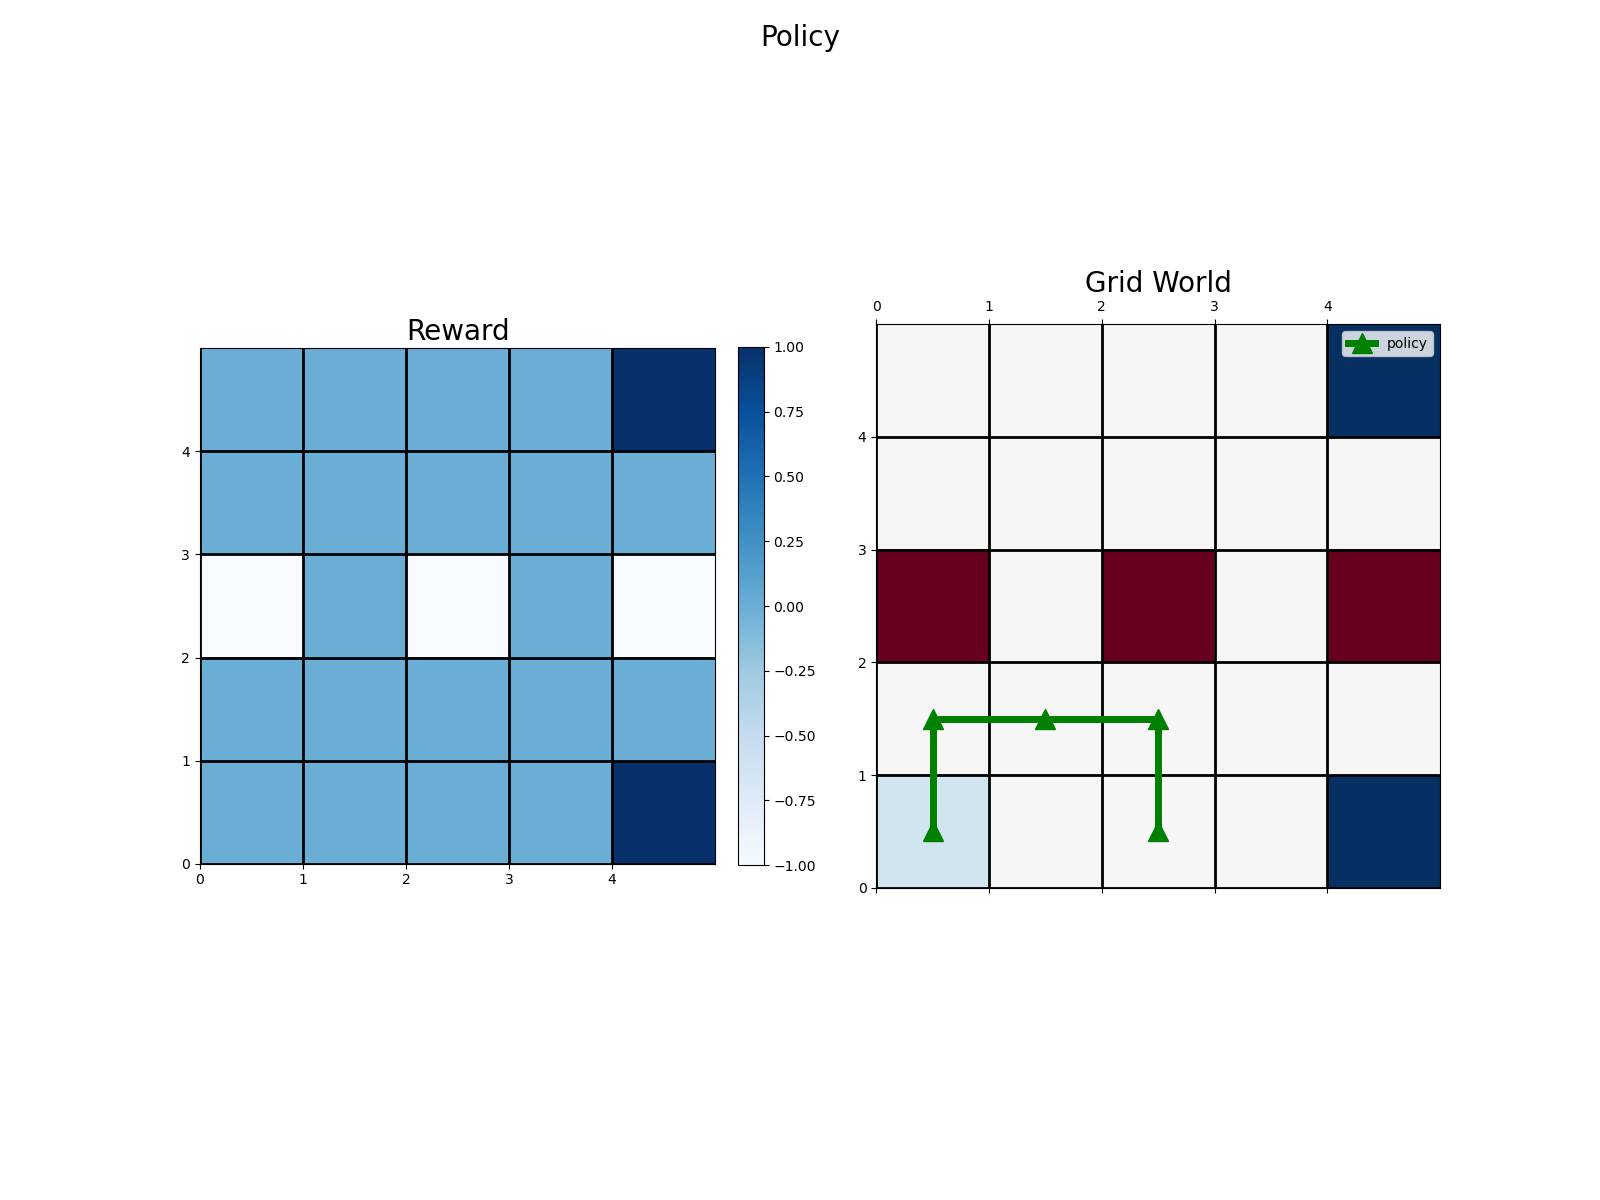
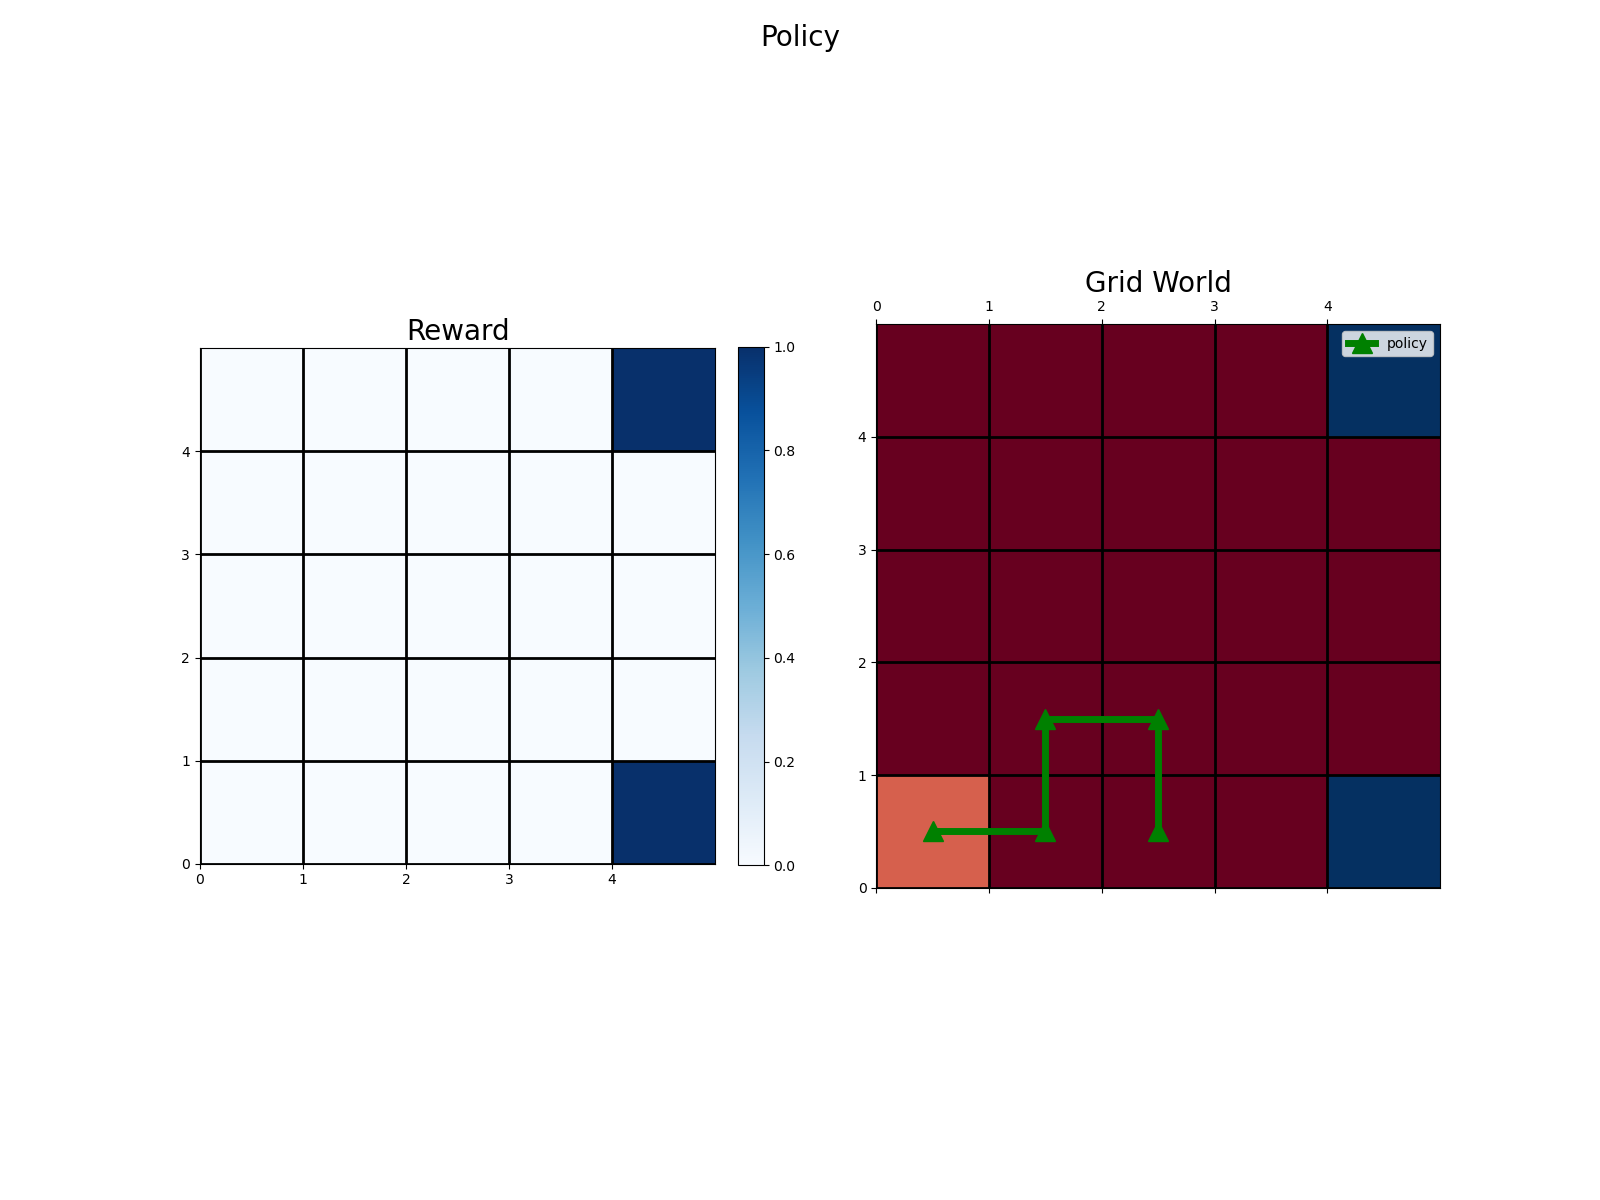
adding stochasticity

Changed region(s): [[0.5312, 0.2467, 0.9062, 0.74], [0.125, 0.2775, 0.5, 0.74]]

diff --git a/src/grid.py b/src/grid.py
@@ -1,8 +1,10 @@
+import random
+
 class GridWorld:
     '''
         Creates a grid-world environment.
     '''
-    def __init__(self, rows: int, cols: int, init_pos: tuple, goals, obstacles, p_slip: int):
+    def __init__(self, rows: int, cols: int, init_pos: tuple, goals, obstacles, p_slip: float=0.0):
         """
         Defines grid-world with following properties:
             rows: integer
@@ -10,6 +12,7 @@ class GridWorld:
             init_pos: tuple (x, y)
             goals: list of tuples
             obstacles: list of tuples
+            p_slip: slip probability
         """
         self.rows = rows
         self.cols = cols
@@ -18,7 +21,7 @@ class GridWorld:
         self.grid = [['_' for i in range(self.cols)] for j in range(self.rows)]
         self.init_pos = init_pos
         self.goals = goals
-        self.action_space = ['U', 'D', 'L', 'R']
+        self.action_space = ['U', 'R', 'D', 'L']
         self.grid[init_pos[0]][init_pos[1]] = 'S'
 
         for goal_pos in goals:
@@ -113,12 +116,28 @@ class GridWorld:
             print("\n")
         return ""        
 
+    def choose_action(self, action):
+        """ Probabilistic action. 
+            With probability 'roll' >= p_slip, returns the same action,
+            else uniformly chooses an orthogonal action.
+        """
+        roll = random.random() # generates a random number [0.0, 1.0)
+        idx = self.action_space.index(action)
+        n_actions = len(self.action_space) # for the sake of generalization
+        other_actions = [self.action_space[(idx-1) % n_actions], self.action_space[(idx+1) % n_actions]] # get orthogonal actions
+        if roll >= self.p_slip:
+            return action
+        else:
+            return random.choice(other_actions)
+
+
     def step(self, action):
         """ Returns next state, observed reward and done. """
-        next_state = self.nextState(self.current_state, action)
-        reward = self.reward[next_state[0]][next_state[1]]
-        self.current_state = next_state
-        done = self.isGoal(next_state)
+        p_action = self.choose_action(action) # get the stochastic action
+        next_state = self.nextState(self.current_state, p_action) # next state
+        reward = self.reward[next_state[0]][next_state[1]] # reward observed
+        self.current_state = next_state # update current state
+        done = self.isGoal(next_state) # check if goal is reached
         return (next_state, reward, done)
 
     def render(self):

diff --git a/src/main.py b/src/main.py
@@ -24,8 +24,9 @@ def main(env_name, create_obstacles=False):
     init_pos = (rows-1, 0)
     goals = [(0, cols-1), (rows-1, cols-1)]
     obstacles = []
+    p_slip = 0.8
     env_file = os.path.join(env_dir, env_name+".env")
-    g = G(rows, cols, init_pos, goals, obstacles)
+    g = G(rows, cols, init_pos, goals, obstacles, p_slip)
 
     # Design the obstacles and save it in the env_file
     if create_obstacles:
@@ -38,6 +39,8 @@ def main(env_name, create_obstacles=False):
 
     # Define an agent or robot for the grid-world
     robot = Agent(g)
+
+    # ----- This is where you define your RL agent. I just chose a random policy ----
     robot.gen_policy()
 
     # Show the plots of the grid-world and its reward 
@@ -56,7 +59,7 @@ if __name__ == '__main__':
         os.makedirs(fig_dir)
 
     parser = argparse.ArgumentParser(
-        description='Grid-World setup to provide demonstrations')
+        description='Grid-World setup')
     parser.add_argument('f', type=str, help='filename of environment; automatically appends .env extension: Example: env1')
     parser.add_argument('--d',
                         action='store_true',
